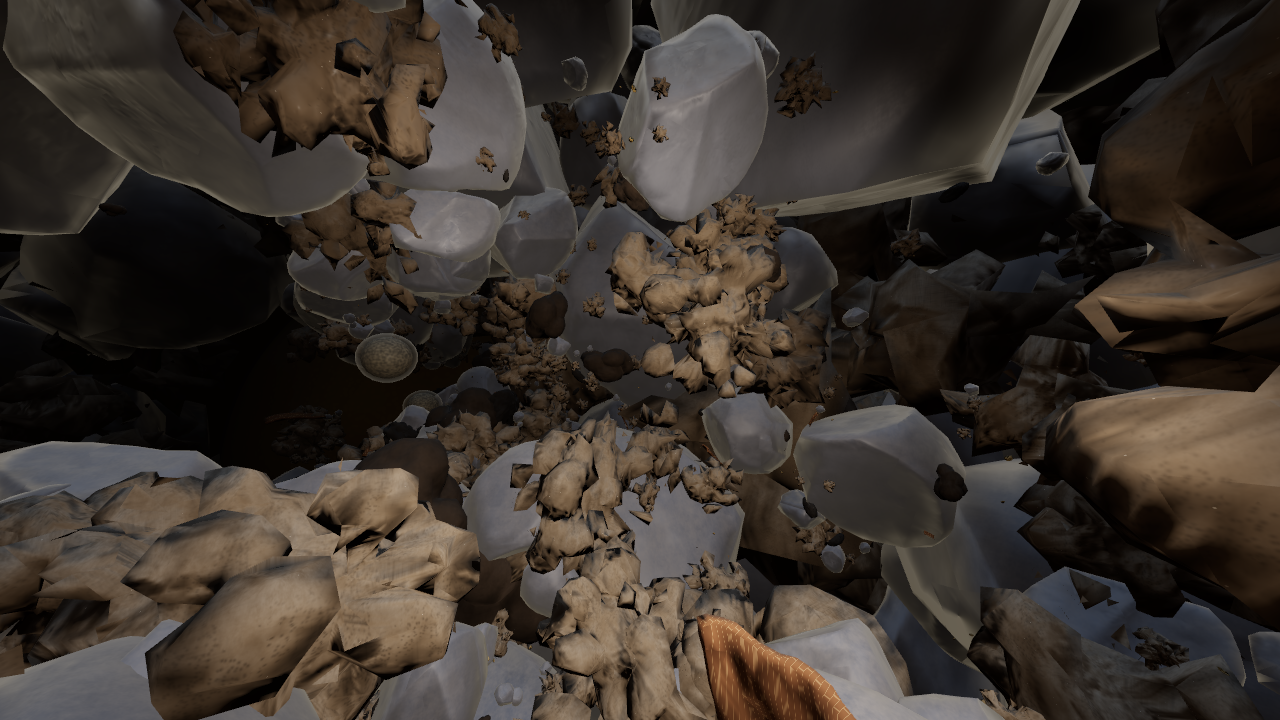
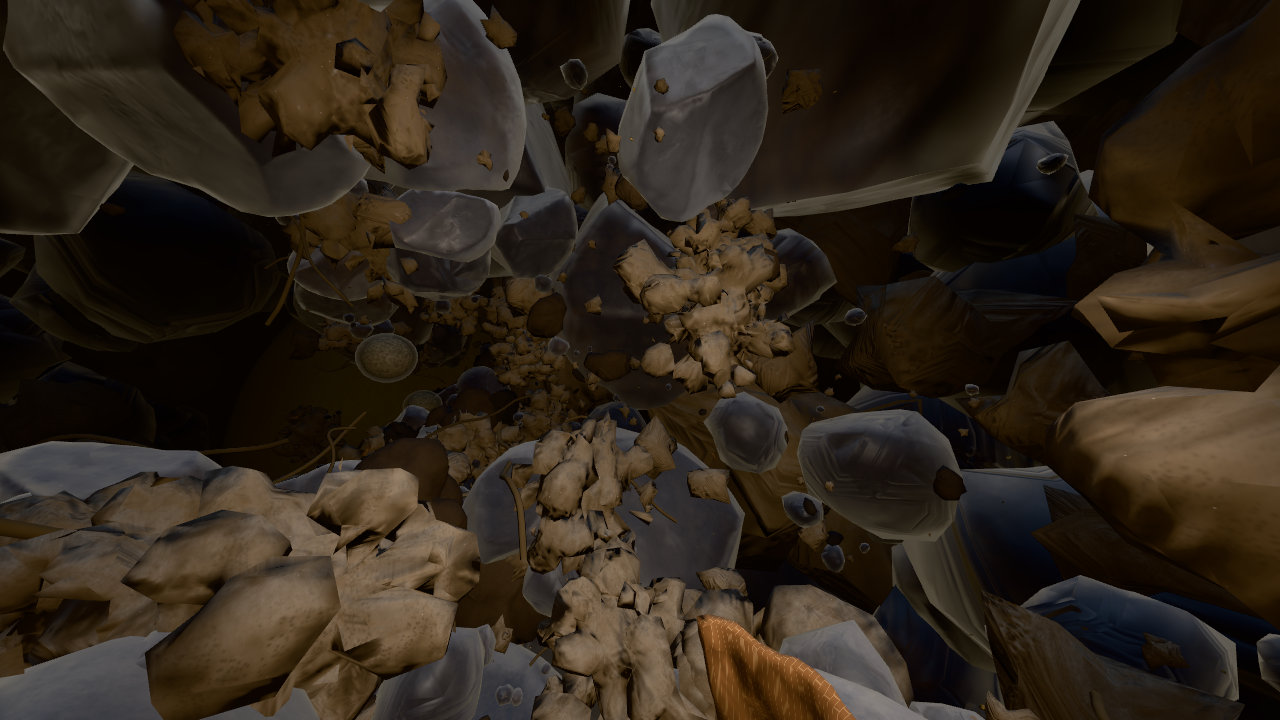
UNDERSOIL: M2 remainder (VR tools, comfort settings) and proposals (vitality strip, dividing bacteria, colloid push, speed settings, carry-water play); production deploy
Claude-Session: https://claude.ai/code/session_01HXHWaeyj425ipGMnohy3Vo

diff --git a/undersoil/src/pages/vr.ts b/undersoil/src/pages/vr.ts
@@ -9,6 +9,7 @@ import { makeDemo } from '../game/demo';
 import { pushOut } from '../game/controls';
 import { makeHud } from './hud';
 import { buildSurface } from '../game/surface';
+import { makeTools } from '../game/tools';
 
 const errors: string[] = [];
 addEventListener('error', (e) => errors.push(e.message));
@@ -46,6 +47,34 @@ async function main() {
   const doSwitch = () => { if (!pending) return; where = pending; pending = null; (where === 'surface' ? sRig : rig).add(camera); growT = 0; surface.setGrowth(0); if (!renderer.xr.isPresenting) pitch = where === 'surface' ? -0.75 : 0; toggleBtn.textContent = where === 'soil' ? '地上を見る' : '土の中へ戻る'; };
   const toggleBtn = document.createElement('button'); toggleBtn.className = 'btn'; toggleBtn.textContent = '地上を見る'; document.querySelector('.nav')!.prepend(toggleBtn);
   toggleBtn.addEventListener('click', () => goTo(where === 'soil' ? 'surface' : 'soil'));
+  // ---- M2：VR の道具と、酔いにくさの設定
+  const tools = makeTools(scene, camera, world, game.seed.position, () => { /* 音は M3 */ }, (p, k) => { game.swarm.attract(p, k); game.swarm2.attract(p, k); });
+  const opt = (id: string, key: string) => { const el = $(id) as HTMLSelectElement; try { const v = localStorage.getItem(key); if (v) el.value = v; } catch { /* noop */ } el.addEventListener('change', () => { try { localStorage.setItem(key, el.value); } catch { /* noop */ } }); return el; };
+  const optSnap = opt('optSnap', 'undersoil.vr.snap'), optVig = opt('optVig', 'undersoil.vr.vig'), optSpeed = opt('optSpeed', 'undersoil.vr.speed');
+  // 視野のまわりを暗くする輪（動いている間だけ。トンネル効果で酔いを減らす）
+  const vig = new THREE.Mesh(new THREE.RingGeometry(0.19, 1.2, 48), new THREE.MeshBasicMaterial({ color: 0x000000, transparent: true, opacity: 0, depthTest: false, depthWrite: false, fog: false }));
+  vig.position.z = -0.3; vig.renderOrder = 999; vig.frustumCulled = false; camera.add(vig);
+  // 手：0・1 番のコントローラー。左右は接続時に分かる
+  const hands: { left: THREE.Object3D | null; right: THREE.Object3D | null } = { left: null, right: null };
+  for (const i of [0, 1]) { const c = renderer.xr.getController(i); rig.add(c);
+    c.addEventListener('connected', (e) => { const h = (e as unknown as { data: XRInputSource }).data.handedness; if (h === 'left') { hands.left = c; c.add(wrist); } else if (h === 'right') hands.right = c; });
+    c.addEventListener('selectstart', () => { if (c === hands.right && where === 'soil') tools.sugar(c.getWorldPosition(new THREE.Vector3())); });
+    c.addEventListener('squeezestart', () => { if (c === hands.right) { if (where === 'soil') tools.water(c.getWorldPosition(new THREE.Vector3())); } else goTo(where === 'soil' ? 'surface' : 'soil'); }); }
+  // 手首の画面（スキャン）：左手の甲の上の小さな板。顔のほうへ向けると見える
+  const wc = document.createElement('canvas'); wc.width = 512; wc.height = 384; const wctx = wc.getContext('2d')!; const wtex = new THREE.CanvasTexture(wc); wtex.colorSpace = THREE.SRGBColorSpace;
+  const wrist = new THREE.Mesh(new THREE.PlaneGeometry(0.16, 0.12), new THREE.MeshBasicMaterial({ map: wtex, transparent: true, opacity: 0, depthTest: false, fog: false }));
+  wrist.position.set(0, 0.07, 0.03); wrist.rotation.x = -Math.PI / 2.6; wrist.renderOrder = 998;
+  let wristT = 0;
+  const drawWrist = (pos: THREE.Vector3) => {
+    const r = tools.read(pos), g = wctx; g.clearRect(0, 0, 512, 384); g.fillStyle = 'rgba(8,20,22,.9)'; g.fillRect(0, 0, 512, 384); g.strokeStyle = '#78dcdc'; g.lineWidth = 3; g.strokeRect(2, 2, 508, 380);
+    g.fillStyle = '#8fe6e0'; g.font = 'bold 30px sans-serif'; g.fillText(`スキャン　区画 ${r.cell + 1}`, 20, 44);
+    const rows: [string, number][] = [['水', r.water], ['糖', r.carbon], ['微生物', r.microbes], ['団粒', r.structure]];
+    rows.forEach(([n, v], k) => { const y = 84 + k * 44; g.fillStyle = '#d8f3f0'; g.font = '26px sans-serif'; g.fillText(n, 20, y + 8); g.fillStyle = 'rgba(255,255,255,.12)'; g.fillRect(130, y - 12, 300, 18); g.fillStyle = '#6fd6cf'; g.fillRect(130, y - 12, 300 * v, 18); g.fillStyle = '#d8f3f0'; g.fillText(String(Math.round(v * 100)), 445, y + 8); });
+    g.fillStyle = '#ffd27a'; g.font = 'bold 28px sans-serif'; g.fillText(`土の活力 ${Math.round(r.vitality * 100)}%　水 ${tools.tank}　糖 ${tools.stock}`, 20, 276);
+    r.all.forEach((v, k) => { g.fillStyle = `hsl(${Math.round(12 + v * 160)} 55% ${Math.round(22 + v * 22)}%)`; g.fillRect(20 + k * (472 / r.all.length), 296, 472 / r.all.length - 3, 20); if (k === r.cell) { g.strokeStyle = '#ffd27a'; g.strokeRect(20 + k * (472 / r.all.length) - 1, 294, 472 / r.all.length - 1, 24); } });
+    g.fillStyle = '#ffe2a8'; g.font = '20px sans-serif'; g.fillText(tools.message.slice(0, 26), 20, 356);
+    wtex.needsUpdate = true;
+  };
   const demo = makeDemo(world);
   const resize = () => { if (renderer.xr.isPresenting) return; renderer.setPixelRatio(Math.min(devicePixelRatio, 1.5)); renderer.setSize(innerWidth, innerHeight, false); camera.aspect = innerWidth / innerHeight; camera.updateProjectionMatrix(); };
   addEventListener('resize', resize); resize();
@@ -63,15 +92,13 @@ async function main() {
   try { supported = !!xr && await xr.isSessionSupported('immersive-vr'); } catch { supported = false; }
   await renderer.compileAsync(scene, camera);
   if (!supported) { btn.disabled = true; msg.textContent = 'このブラウザは VR に対応していません。Meta Quest 3 の標準ブラウザで開いてください。画面をドラッグすると見回せます。'; }
-  else msg.textContent = '座って遊ぶのがおすすめです。左スティックで移動、右スティックで向きを変え、握るボタンで地上の芽生えへ行けます。ときどき休憩をとり、気分が悪くなったらすぐに中断してください。';
+  else msg.textContent = '座って遊ぶのがおすすめです。左スティックで移動、右スティックで向きを変えます。ときどき休憩をとり、気分が悪くなったらすぐに中断してください。';
   setTimeout(() => demo.start(), 4000);
   let session: XRSession | null = null;
   btn.addEventListener('click', async () => {
     if (session) { await session.end(); return; }
     try {
       session = await xr!.requestSession('immersive-vr', { optionalFeatures: ['local-floor', 'bounded-floor', 'hand-tracking'] });
-      // 握るボタン（グリップ）で、土の中 ⇄ 地上を切り替える
-      session.addEventListener('squeeze', () => goTo(where === 'soil' ? 'surface' : 'soil'));
       session.addEventListener('end', () => { session = null; btn.textContent = 'VR で遊ぶ'; document.body.classList.remove('in-vr'); camera.position.set(0, 1.25, 0); resize(); });
       await renderer.xr.setSession(session);
       btn.textContent = 'VR を終了'; document.body.classList.add('in-vr');
@@ -89,15 +116,25 @@ async function main() {
       if (where === 'surface') { /* 地上では移動しない（向きを変えるだけ） */ }
       let mx = 0, mz = 0, tx = 0;
       for (const src of session.inputSources) { const a = src.gamepad?.axes; if (!a) continue; const x = a[2] ?? a[0] ?? 0, y = a[3] ?? a[1] ?? 0; if (src.handedness === 'left') { mx = Math.abs(x) > 0.15 ? x : 0; mz = Math.abs(y) > 0.15 ? y : 0; } else if (src.handedness === 'right') tx = x; }
-      if (Math.abs(tx) > 0.6 && snapReady) { rig.rotation.y -= Math.sign(tx) * Math.PI / 6; snapReady = false; } else if (Math.abs(tx) < 0.3) snapReady = true;
+      if (Math.abs(tx) > 0.6 && snapReady) { rig.rotation.y -= Math.sign(tx) * Number(optSnap.value) * Math.PI / 180; snapReady = false; } else if (Math.abs(tx) < 0.3) snapReady = true;
       const xrCam = renderer.xr.getCamera(); xrCam.getWorldQuaternion(q);
       fwd.set(0, 0, -1).applyQuaternion(q); right.set(1, 0, 0).applyQuaternion(q);
       want.set(0, 0, 0).addScaledVector(fwd, -mz).addScaledVector(right, mx); if (want.lengthSq() > 1) want.normalize();
-      vel.lerp(want.multiplyScalar(3.2), 1 - Math.exp(-dt * 3));
+      vel.lerp(want.multiplyScalar(3.2 * Number(optSpeed.value)), 1 - Math.exp(-dt * 3));
       if (where === 'soil') rig.position.addScaledVector(vel, dt);
       // 頭の位置で粒との当たりを取り、ずれた分だけ体を戻す
       if (where === 'soil') { xrCam.getWorldPosition(head); const before = head.clone(); pushOut(head, world.colliders, 0.7); rig.position.add(head.sub(before)); }
     } else camera.rotation.set(pitch, yaw, 0, 'YXZ');
+    { // 道具と酔いにくさ
+      const headW = (renderer.xr.isPresenting ? renderer.xr.getCamera() : camera).getWorldPosition(new THREE.Vector3());
+      tools.update(dt, headW);
+      const mvig = vig.material as THREE.MeshBasicMaterial; const wantV = optVig.value === 'on' && renderer.xr.isPresenting && where === 'soil' ? Math.min(0.85, vel.length() / 2.2) : 0; mvig.opacity += (wantV - mvig.opacity) * (1 - Math.exp(-dt * 6)); vig.visible = mvig.opacity > 0.01;
+      if (hands.left) { // 手首の板が顔のほうを向いているときだけ出す
+        const wp = wrist.getWorldPosition(new THREE.Vector3()), n = new THREE.Vector3(0, 0, 1).transformDirection(wrist.matrixWorld), facing = n.dot(headW.clone().sub(wp).normalize());
+        const wm = wrist.material as THREE.MeshBasicMaterial; wm.opacity += ((facing > 0.55 && where === 'soil' ? 1 : 0) - wm.opacity) * (1 - Math.exp(-dt * 8)); wrist.visible = wm.opacity > 0.02;
+        wristT -= dt; if (wrist.visible && wristT <= 0) { wristT = 0.4; drawWrist(headW); }
+      }
+    }
     demo.update(dt); game.update(dt, now / 1000);
     if (fadeT > 0) { renderer.setClearColor(0x000000, 1); renderer.clear(); }   // 切り替えの暗転
     else renderer.render(where === 'soil' ? scene : surface.scene, camera);

diff --git a/undersoil/src/game/tools.ts b/undersoil/src/game/tools.ts
@@ -14,14 +14,20 @@ export function makeTools(scene: THREE.Scene, camera: THREE.Camera, world: World
   const pulse = document.createElement('div'); pulse.className = 'scan-pulse'; document.body.append(pulse);
   const toast = document.createElement('div'); toast.className = 'tool-toast'; document.body.append(toast);
   let panelT = 0, toastT = 0;
-  const say = (t: string) => { toast.textContent = t; toast.classList.add('on'); toastT = 3.2; };
+  let lastSay = '';
+  const say = (t: string) => { lastSay = t; toast.textContent = t; toast.classList.add('on'); toastT = 3.2; };
   const bar = (name: string, v: number, hint: string) => `<div class="scan-row"><span>${name}</span><div class="scan-bar"><i style="width:${Math.round(v * 100)}%"></i></div><b>${Math.round(v * 100)}</b><small>${hint}</small></div>`;
+  /** 次にどこへ運ぶとよいか：入口から見て、最初に水の足りない区画 */
+  const next = () => { const k = world.grid.cells.findIndex((c) => c.water < 0.4); const here = world.cellAt(camera.position);
+    return k < 0 ? '道ぞいの区画すべてに、水が行きわたっています' : k === here ? '▼ ここに水が必要です' : `つぎは <b>区画 ${k + 1}</b>（${k > here ? '種のほう' : '入口のほう'}へ ${Math.abs(k - here)} つ）に水を`; };
   const scan = () => {
     const i = world.cellAt(camera.position), c = world.grid.cells[i], v = world.grid.vitality(i);
     const lacks: [number, string][] = [[c.water, '水が足りません。「水を運ぶ」で、水の橋をつなごう'], [c.microbes, c.water < 0.3 ? '微生物は眠っています。まず水が必要です' : '微生物が少ない。糖のしずくを置くと増えます'], [c.structure, '団粒が育っていません。微生物が増えると、のりで粒がまとまります']];
     lacks.sort((a, b) => a[0] - b[0]);
     panel.innerHTML = `<h3>スキャン<small>スーツの画面・区画 ${i + 1}</small></h3>
       ${bar('水（みず）', c.water, '')}${bar('糖（とう）', c.carbon, '')}${bar('微生物（びせいぶつ）', c.microbes, '')}${bar('団粒（だんりゅう）', c.structure, '')}
+      <div class="scan-strip"><span>入口</span>${world.grid.cells.map((_, k) => { const vv = world.grid.vitality(k); return `<i class="${k === i ? 'me' : ''}" style="background:hsl(${Math.round(12 + vv * 160)} 55% ${Math.round(22 + vv * 22)}%)" title="${Math.round(vv * 100)}"></i>`; }).join('')}<span>種</span></div>
+      <div class="scan-next">${next()}</div>
       <div class="scan-v">土の活力 <b>${Math.round(v * 100)}%</b></div>
       <p>${v > 0.75 ? 'この区画は、生き物に満ちています。' : lacks[0][0] > 0.55 ? 'もう少しです。水と糖が行きわたると、活力が上がります。' : lacks[0][1]}</p>`;
     panel.classList.add('on'); panelT = 7; pulse.classList.remove('go'); void pulse.offsetWidth; pulse.classList.add('go'); chime();
@@ -34,17 +40,35 @@ export function makeTools(scene: THREE.Scene, camera: THREE.Camera, world: World
     dropMat.colorNode = vec3(0.55, 0.36, 0.08); dropMat.roughnessNode = float(0.08); dropMat.clearcoatNode = float(1);
     dropMat.emissiveNode = vec3(0.5, 0.3, 0.06).mul(rim.mul(0.6).add(0.12)); dropMat.opacityNode = rim.mul(0.5).add(0.4); }
   const drops: { m: THREE.Mesh; t: number; cell: number }[] = [];
-  const sugar = () => {
-    if (stock <= 0) { say('糖（とう）がありません。種（たね）のそばで補給できます'); return; }
-    const p = camera.position.clone().add(new THREE.Vector3(0, -0.35, -3.0).applyQuaternion(camera.quaternion)); pushOut(p, world.colliders, 0.45);
+  const sugar = (at?: THREE.Vector3) => {
+    if (stock <= 0) { say('糖（とう）がありません。種（たね）のそばで補給できます'); return false; }
+    const p = at ? at.clone() : camera.position.clone().add(new THREE.Vector3(0, -0.35, -3.0).applyQuaternion(camera.quaternion)); pushOut(p, world.colliders, 0.45);
     const m = new THREE.Mesh(dropGeo, dropMat); m.position.copy(p); m.scale.setScalar(0.22); m.name = 'sugar_drop'; scene.add(m);
     const cell = world.cellAt(p); drops.push({ m, t: 0, cell }); stock--; pull = 0; chime();
     say(world.grid.cells[cell].water < 0.3 ? `糖のしずくを置きました（残り ${stock}）。ここは乾いていて、微生物はまだ眠っています` : `糖のしずくを置きました（残り ${stock}）。微生物が集まって増えます`);
+    return true;
+  };
+  // ---- 水を運ぶ（ステージ1の固有の遊び）：水のある区画でくみ、乾いた区画でまく。となりの区画にも水があれば、水の橋がかかってつながる
+  let tank = 0; const TANK = 3;
+  const water = (pos?: THREE.Vector3) => {
+    const i = world.cellAt(pos ?? camera.position), g = world.grid, c = g.cells[i];
+    for (const cc of g.cells) cc.dryness = 1;
+    if (tank < TANK && (i === 0 || c.water > 0.6)) {   // 入口の区画には、地上から雨水がしみ込んでくる（いつでもくめる）
+      tank = TANK; if (i === 0) { g.addWater(0, 0.7); g.addCarbon(0, 0.15); } else c.water = Math.max(0.45, c.water - 0.1);
+      chime(); say(i === 0 ? '入口にしみ込む雨水（あまみず）をくみました（3 回ぶん）' : '水をくみました（3 回ぶん）'); return 'take';
+    }
+    if (tank <= 0) { say('水がありません。入口（地図の左）か、水のある区画でくめます'); return 'empty'; }
+    tank--; g.addWater(i, 0.55); g.addCarbon(i, 0.08); chime();
+    let linked = false; for (const j of [i - 1, i + 1]) if (j >= 0 && j < g.count && g.cells[j].water > 0.3 && !g.links[i].has(j)) { g.link(i, j); linked = true; }
+    say(linked ? `水をまきました（残り ${tank}）。となりの区画と、水の橋（はし）がつながりました！` : `水をまきました（残り ${tank}）。となりにも水があると、水の橋がかかります`); return 'pour';
   };
   return {
-    scan, sugar,
+    scan, sugar, water, get tank() { return tank; }, get message() { return lastSay; },
+    /** VR の手首の画面用：いまいる区画の数字 */
+    read(pos?: THREE.Vector3) { const i = world.cellAt(pos ?? camera.position), c = world.grid.cells[i]; return { cell: i, water: c.water, carbon: c.carbon, microbes: c.microbes, structure: c.structure, vitality: world.grid.vitality(i), all: world.grid.cells.map((_, k) => world.grid.vitality(k)) }; },
     get stock() { return stock; },
-    update(dt: number) {
+    /** pos：プレイヤーの位置（VR では頭の位置を渡す） */
+    update(dt: number, pos?: THREE.Vector3) {
       if (panelT > 0) { panelT -= dt; if (panelT <= 0) panel.classList.remove('on'); }
       soilUniforms.scan.value += ((panelT > 0 || DBG_SCAN ? 1 : 0) - soilUniforms.scan.value) * (1 - Math.exp(-dt * 4));   // スキャン中だけ、粒に活力の色
       if (toastT > 0) { toastT -= dt; if (toastT <= 0) toast.classList.remove('on'); }
@@ -58,7 +82,7 @@ export function makeTools(scene: THREE.Scene, camera: THREE.Camera, world: World
       // 細菌は糖の濃いほうへ集まる（走化性）。いちばん新しいしずくへ、数秒かけて寄ってくる。水がないと動けない
       { const d = drops[drops.length - 1]; if (d && world.grid.cells[d.cell].water > 0.25) { pull = Math.min(1, pull + dt / 6); attract?.(d.m.position, pull * Math.max(0, 1 - d.t / 25) ** 0.3); } else { pull = 0; attract?.(null, 0); } }
       // 種のそばで補給（種からしみ出した糖をもらう）
-      if (stock < MAX && camera.position.distanceTo(seedPos) < 80) { stock = MAX; say('種（たね）からしみ出した糖を補給しました（3 つ）'); }
+      if (stock < MAX && (pos ?? camera.position).distanceTo(seedPos) < 80) { stock = MAX; say('種（たね）からしみ出した糖を補給しました（3 つ）'); }
     },
   };
 }

diff --git a/undersoil/src/game/controls.ts b/undersoil/src/game/controls.ts
@@ -1,11 +1,11 @@
 // 移動（M2）：見回しはドラッグ／右スティック、移動は WASD／左スティック／タッチの仮想スティック。粒にはめり込まない。
 // ・歩く（乾いた所）：足もとの粒へ引かれ（弱い重力）、きびきび止まる。上下の入力は、登る・下りる
 // ・泳ぐ（水のある所）：全方向に進み、止めてもしばらく滑る（水の抵抗でゆっくり止まる）。少し速い
-// ・道具：スキャン（E キー／ゲームパッド X）、糖のしずく（Q キー／ゲームパッド Y）。画面のボタンでも使える
+// ・道具：スキャン（E キー／ゲームパッド X）、糖のしずく（Q キー／ゲームパッド Y）、水をくむ・まく（F キー／ゲームパッド RB）。画面のボタンでも使える
 import * as THREE from 'three/webgpu';
 import type { Collider } from './world';
 
-export interface FreeControls { update(dt: number): void; enabled: boolean; yaw: number; pitch: number; moving: boolean; /** その場所の水の量（0〜1）。0.45 以上で泳ぐ */ water: number; swimming: boolean; /** 歩くときの、視点のわずかな上下（設定で切れる） */ bob: boolean; onAction?: (a: 'scan' | 'sugar') => void; }
+export interface FreeControls { update(dt: number): void; enabled: boolean; yaw: number; pitch: number; moving: boolean; /** その場所の水の量（0〜1）。0.45 以上で泳ぐ */ water: number; swimming: boolean; /** 歩くときの、視点のわずかな上下（設定で切れる） */ bob: boolean; /** 設定：動く速さ・見回す速さの倍率 */ speedK: number; lookK: number; onAction?: (a: 'scan' | 'sugar' | 'water') => void; }
 
 export function pushOut(p: THREE.Vector3, colliders: Collider[], radius: number) {
   for (let it = 0; it < 2; it++) for (const c of colliders) {
@@ -16,11 +16,11 @@ export function pushOut(p: THREE.Vector3, colliders: Collider[], radius: number)
 
 export function makeFreeControls(camera: THREE.Camera, dom: HTMLElement, colliders: Collider[], stick: HTMLElement | null): FreeControls {
   const keys = new Set<string>(); const vel = new THREE.Vector3(); const move = new THREE.Vector2();
-  const c: FreeControls = { enabled: true, yaw: 0, pitch: 0, moving: false, water: 0, swimming: false, bob: true, update };
+  const c: FreeControls = { enabled: true, yaw: 0, pitch: 0, moving: false, water: 0, swimming: false, bob: true, speedK: 1, lookK: 1, update };
   let bobPh = 0, bobPrev = 0;
-  let swimK = 0; const padPrev = [false, false];
+  let swimK = 0; const padPrev = [false, false, false];
   const e = new THREE.Euler().setFromQuaternion(camera.quaternion, 'YXZ'); c.yaw = e.y; c.pitch = e.x;
-  addEventListener('keydown', (ev) => { keys.add(ev.code); if (c.enabled && !ev.repeat) { if (ev.code === 'KeyE') c.onAction?.('scan'); if (ev.code === 'KeyQ') c.onAction?.('sugar'); } }); addEventListener('keyup', (ev) => keys.delete(ev.code)); addEventListener('blur', () => keys.clear());
+  addEventListener('keydown', (ev) => { keys.add(ev.code); if (c.enabled && !ev.repeat) { if (ev.code === 'KeyE') c.onAction?.('scan'); if (ev.code === 'KeyQ') c.onAction?.('sugar'); if (ev.code === 'KeyF') c.onAction?.('water'); } }); addEventListener('keyup', (ev) => keys.delete(ev.code)); addEventListener('blur', () => keys.clear());
   let lookId = -1, lx = 0, ly = 0, stickId = -1, sx = 0, sy = 0;
   dom.addEventListener('pointerdown', (ev) => {
     if (stick && ev.pointerType === 'touch' && ev.clientX < innerWidth * 0.4 && ev.clientY > innerHeight * 0.4) { stickId = ev.pointerId; sx = ev.clientX; sy = ev.clientY; stick.style.left = sx + 'px'; stick.style.top = sy + 'px'; stick.classList.add('on'); }
@@ -28,7 +28,7 @@ export function makeFreeControls(camera: THREE.Camera, dom: HTMLElement, collide
     dom.setPointerCapture(ev.pointerId);
   });
   dom.addEventListener('pointermove', (ev) => {
-    if (ev.pointerId === lookId) { const k = ev.pointerType === 'touch' ? 0.0045 : 0.003; c.yaw -= (ev.clientX - lx) * k; c.pitch = Math.max(-1.45, Math.min(1.45, c.pitch - (ev.clientY - ly) * k)); lx = ev.clientX; ly = ev.clientY; }
+    if (ev.pointerId === lookId) { const k = (ev.pointerType === 'touch' ? 0.0045 : 0.003) * c.lookK; c.yaw -= (ev.clientX - lx) * k; c.pitch = Math.max(-1.45, Math.min(1.45, c.pitch - (ev.clientY - ly) * k)); lx = ev.clientX; ly = ev.clientY; }
     if (ev.pointerId === stickId) { move.set((ev.clientX - sx) / 60, (ev.clientY - sy) / 60); if (move.length() > 1) move.normalize(); const knob = stick!.firstElementChild as HTMLElement; knob.style.transform = `translate(${move.x * 40}px, ${move.y * 40}px)`; }
   });
   const end = (ev: PointerEvent) => { if (ev.pointerId === lookId) lookId = -1; if (ev.pointerId === stickId) { stickId = -1; move.set(0, 0); stick!.classList.remove('on'); (stick!.firstElementChild as HTMLElement).style.transform = ''; } };
@@ -41,16 +41,16 @@ export function makeFreeControls(camera: THREE.Camera, dom: HTMLElement, collide
     if (keys.has('KeyA') || keys.has('ArrowLeft')) mx -= 1; if (keys.has('KeyD') || keys.has('ArrowRight')) mx += 1;
     if (keys.has('Space')) my += 1; if (keys.has('KeyC') || keys.has('ShiftLeft')) my -= 1;
     const gp = navigator.getGamepads?.()[0];
-    if (gp) { const dz = (v: number) => (Math.abs(v) < 0.15 ? 0 : v); mx += dz(gp.axes[0] ?? 0); mz += dz(gp.axes[1] ?? 0); c.yaw -= dz(gp.axes[2] ?? 0) * 2.2 * dt; c.pitch = Math.max(-1.45, Math.min(1.45, c.pitch - dz(gp.axes[3] ?? 0) * 1.6 * dt)); if (gp.buttons[0]?.pressed) my += 1; if (gp.buttons[1]?.pressed) my -= 1; }
+    if (gp) { const dz = (v: number) => (Math.abs(v) < 0.15 ? 0 : v); mx += dz(gp.axes[0] ?? 0); mz += dz(gp.axes[1] ?? 0); c.yaw -= dz(gp.axes[2] ?? 0) * 2.2 * c.lookK * dt; c.pitch = Math.max(-1.45, Math.min(1.45, c.pitch - dz(gp.axes[3] ?? 0) * 1.6 * dt)); if (gp.buttons[0]?.pressed) my += 1; if (gp.buttons[1]?.pressed) my -= 1; }
     camera.quaternion.setFromEuler(e.set(c.pitch, c.yaw, 0, 'YXZ'));
     fwd.set(0, 0, -1).applyQuaternion(camera.quaternion); right.set(1, 0, 0).applyQuaternion(camera.quaternion);
     want.set(0, 0, 0).addScaledVector(fwd, -mz).addScaledVector(right, mx); want.y += my; if (want.lengthSq() > 1) want.normalize();
     c.moving = want.lengthSq() > 0.01;
-    if (gp) { const b = [!!gp.buttons[2]?.pressed, !!gp.buttons[3]?.pressed]; if (b[0] && !padPrev[0]) c.onAction?.('scan'); if (b[1] && !padPrev[1]) c.onAction?.('sugar'); padPrev[0] = b[0]; padPrev[1] = b[1];
+    if (gp) { const b = [!!gp.buttons[2]?.pressed, !!gp.buttons[3]?.pressed]; if (b[0] && !padPrev[0]) c.onAction?.('scan'); if (b[1] && !padPrev[1]) c.onAction?.('sugar'); padPrev[0] = b[0]; padPrev[1] = b[1]; { const w = !!gp.buttons[5]?.pressed; if (w && !padPrev[2]) c.onAction?.('water'); padPrev[2] = w; }
       my += (gp.buttons[0]?.pressed ? 1 : 0) - (gp.buttons[1]?.pressed ? 1 : 0); want.y += (gp.buttons[0]?.pressed ? 1 : 0) - (gp.buttons[1]?.pressed ? 1 : 0); }
     // 歩く ⇄ 泳ぐ：水の量でなめらかに切り替える
     c.swimming = c.water > 0.45; swimK += ((c.swimming ? 1 : 0) - swimK) * (1 - Math.exp(-dt * 2.5));
-    const speed = 4.6 + 2.4 * swimK;                                   // 歩き 46µm/秒、泳ぎ 70µm/秒
+    const speed = (4.6 + 2.4 * swimK) * c.speedK;                                   // 歩き 46µm/秒、泳ぎ 70µm/秒
     const accel = c.moving ? 7 - 3.5 * swimK : 6 - 4.8 * swimK;        // 泳ぎは動き出しがゆるく、止めても滑る
     vel.lerp(want.multiplyScalar(speed), 1 - Math.exp(-dt * accel));
     camera.position.addScaledVector(vel, dt);

diff --git a/undersoil/src/pages/screen.ts b/undersoil/src/pages/screen.ts
@@ -22,7 +22,7 @@ import { SPECIES } from '../game/species';
 import { showCard } from '../ui/card';
 import { makePointer } from '../ui/pointer';
 import type { Target } from '../game/encounters';
-import { mountSettings, savedTier, savedBob } from '../ui/settings';
+import { mountSettings, savedTier, savedBob, savedSpeed, savedLook } from '../ui/settings';
 import { createAudio } from '../audio/engine';
 import { makeHud } from './hud';
 
@@ -125,7 +125,8 @@ async function main() {
   const colloids = game.tier === 'vr' ? null : buildColloids(game.tier === 'pc-high' ? 1400 : game.tier === 'mobile-high' ? 800 : 300, 7, game.q.post.some((e: string) => e.startsWith('dof')) ? 0.15 : 1.6)   // ぼかしのない段階では、近すぎる粒は消す（くっきりした玉に見えるため）; if (colloids) scene.add(colloids.mesh);
   // 道具（M2）：スキャンと糖のしずく。自分で動くときに使う（E・Q キー、ゲームパッド X・Y、画面のボタン）
   const tools = makeTools(scene, camera, world, game.seed.position, () => audio.chime(), (p, k) => { game.swarm.attract(p, k); game.swarm2.attract(p, k); });
-  controls.onAction = (a) => (a === 'scan' ? tools.scan() : tools.sugar());
+  controls.onAction = (a) => { if (a === 'scan') tools.scan(); else if (a === 'sugar') tools.sugar(); else tools.water(); };
+  $('waterBtn').addEventListener('click', () => tools.water());
   $('scanBtn').addEventListener('click', () => tools.scan()); $('sugarBtn').addEventListener('click', () => tools.sugar());
   const scope = await buildMicroscope('./');
   const sizes = makeSizes('./');
@@ -213,9 +214,9 @@ async function main() {
   const showGuide = () => {
     if (guideShown) return; guideShown = true;
     const touch = matchMedia('(pointer: coarse)').matches, pad = !!navigator.getGamepads?.()[0];
-    const rows = pad ? [['左スティック', '動く'], ['右スティック', '見回す'], ['A / B', '上へ / 下へ'], ['X', 'スキャン'], ['Y', '糖のしずく']]
-      : touch ? [['画面の左下をなぞる', '動く'], ['そのほかをなぞる', '見回す'], ['「スキャン」', '土のようすを調べる'], ['「糖のしずく」', '微生物を呼ぶ']]
-      : [['W A S D', '動く'], ['ドラッグ', '見回す'], ['スペース / C', '上へ / 下へ'], ['E', 'スキャン'], ['Q', '糖のしずく']];
+    const rows = pad ? [['左スティック', '動く'], ['右スティック', '見回す'], ['A / B', '上へ / 下へ'], ['RB', '水をくむ・まく'], ['X', 'スキャン'], ['Y', '糖のしずく']]
+      : touch ? [['画面の左下をなぞる', '動く'], ['そのほかをなぞる', '見回す'], ['「水をくむ／まく」', '入口でくみ、乾いた所でまく'], ['「スキャン」', '土のようすを調べる'], ['「糖のしずく」', '微生物を呼ぶ']]
+      : [['W A S D', '動く'], ['ドラッグ', '見回す'], ['スペース / C', '上へ / 下へ'], ['F', '水をくむ・まく'], ['E', 'スキャン'], ['Q', '糖のしずく']];
     guide.innerHTML = '<b>動（うご）かしかた</b>' + rows.map(([k, v]) => `<div><kbd>${k}</kbd><span>${v}</span></div>`).join('') + '<small>水のある所では泳ぎ、乾いた所では歩きます。押すと消えます</small>';
     guide.classList.add('on'); const off = () => guide.classList.remove('on'); guide.addEventListener('click', off); setTimeout(off, 30000);
   };
@@ -248,8 +249,8 @@ async function main() {
     else if (touring && visit) { const f = visit.get(); if (f) { const want = f.view ? f.view : visit.pos.clone().add(f.p.clone().sub(visit.anchor)); camera.position.lerp(want, 1 - Math.exp(-dt * 1.2)); const q0 = camera.quaternion.clone(); camera.lookAt(f.p); camera.quaternion.slerp(q0, Math.exp(-dt * 3)); } }
     else if (touring && pointer.focus()) { const f = pointer.focus()!; focusT = focusT ? focusT.lerp(f, 1 - Math.exp(-dt * 2)) : look.clone(); const q0 = camera.quaternion.clone(); camera.lookAt(focusT); camera.quaternion.slerp(q0, Math.exp(-dt * 1.5)); }
     else if (touring) { tourU = (tourU + dt * 0.012) % 1; placeOnPath(0.02 + 0.84 * (0.5 - 0.5 * Math.cos(tourU * Math.PI * 2))); /* 道の終わりで、吸水した種（seed.ts）に近づく */ }
-    else { controls.bob = savedBob() && !reduceMotion; controls.water = world.grid.cells[world.cellAt(camera.position)]?.water ?? 0; controls.update(dt); }
-    tools.update(dt); { const mm = $('moveMode'); const txt = touring || mode !== 'soil' ? '' : controls.swimming ? '泳（およ）ぐ' : '歩（ある）く'; if (mm.textContent !== txt) mm.textContent = txt; $('sugarBtn').textContent = `糖のしずく ${tools.stock}`; document.body.classList.toggle('free', !touring && mode === 'soil'); }
+    else { controls.speedK = savedSpeed(); controls.lookK = savedLook(); controls.bob = savedBob() && !reduceMotion; controls.water = world.grid.cells[world.cellAt(camera.position)]?.water ?? 0; controls.update(dt); }
+    tools.update(dt); { const mm = $('moveMode'); const txt = touring || mode !== 'soil' ? '' : controls.swimming ? '泳（およ）ぐ' : '歩（ある）く'; if (mm.textContent !== txt) mm.textContent = txt; $('sugarBtn').textContent = `糖のしずく ${tools.stock}`; { const ci = world.cellAt(camera.position); $('waterBtn').textContent = tools.tank < 3 && (ci === 0 || world.grid.cells[ci].water > 0.6) ? '水をくむ' : `水をまく ${tools.tank}`; } document.body.classList.toggle('free', !touring && mode === 'soil'); }
     if (wetQ === null) { demo.update(dt); game.update(dt, t); }
     // 手持ちカメラのごくわずかな揺れ（記録映像らしさ）：自動で巡るときだけ、0.15°以内。動きを減らす設定の端末では使わない
     if (touring && !reduceMotion && !testing) { const k = 0.0026; driftQ.setFromEuler(new THREE.Euler(Math.sin(t * 0.53) * k + Math.sin(t * 1.37) * k * 0.4, Math.sin(t * 0.41 + 1.2) * k + Math.sin(t * 1.11) * k * 0.35, 0)); camera.quaternion.multiply(driftQ); }
@@ -263,7 +264,7 @@ async function main() {
       if (viewShift > 0.002) camera.setViewOffset(innerWidth, innerHeight, innerWidth * viewShift, 0, innerWidth, innerHeight); else if (camera.view) camera.clearViewOffset();
       if (post) post.render(); else renderer.render(scene, camera);
     }
-    if (colloids && mode === 'soil') colloids.update(dt, camera.position, world.grid.cells[world.cellAt(camera.position)]?.water ?? 0, !touring && controls.swimming);
+    if (colloids && mode === 'soil') colloids.update(dt, camera.position, world.grid.cells[world.cellAt(camera.position)]?.water ?? 0, !touring && controls.swimming, game.creatures.movers());
     scope.tick(dt); minimap.update(camera, mode === 'soil' && started); goalTick(dt);
     if (!testing) enc.update(dt);
     pointer.update(dt);

diff --git a/undersoil/src/game/swarm.ts b/undersoil/src/game/swarm.ts
@@ -1,7 +1,7 @@
 // 細菌の群れ：桿菌（両端が丸い棒）をインスタンス描画し、動きは頂点シェーダーで作る。
 // 水の膜の中でだけ泳ぐ。乾いた区画では見えない（芽胞として休眠している）。
 import * as THREE from 'three/webgpu';
-import { float, vec3, instancedBufferAttribute, time, sin, cos, positionLocal, mix, saturate, normalView, positionViewDirection, dot, pow, oneMinus, hash, instanceIndex , uniform, smoothstep, mx_noise_float, positionWorld, cameraPosition } from 'three/tsl';
+import { float, vec3, instancedBufferAttribute, time, sin, cos, positionLocal, mix, saturate, normalView, positionViewDirection, dot, pow, oneMinus, hash, instanceIndex , uniform, smoothstep, mx_noise_float, positionWorld, cameraPosition, fract } from 'three/tsl';
 import type { Collider } from './world';
 import { makeRng } from './rng';
 
@@ -64,11 +64,16 @@ export function buildSwarm(colliders: Collider[], cellOf: (p: THREE.Vector3) => 
   const heading = species === 'pseudomonas' ? aTan.mul(cos(tt).sign().add(0.001)).add(side.mul(sin(tt.mul(0.61)).mul(-0.3))).normalize() : aTan;   // 枯草菌は向きを変えない
   const bx = heading.cross(vec3(0.0, 0.0, 1.0)).normalize(), bz = heading.cross(bx);
   const wig = sin(time.mul(18.0).add(aPh.mul(50.0))).mul(0.015); // 細かい震え
+  const uSug = uniform(new THREE.Vector3()), uSugK = uniform(0);
   const lp = positionLocal;
-  const lps = lp.mul(aScl);
+  // 分裂：糖のそばの細菌は、長く伸び、まん中がくびれて、2 つに分かれる（1 回 約 10 秒の早回し。本物は 20〜30 分に 1 回）
+  const nearSug = smoothstep(8.0, 1.5, aPos.sub(uSug).length()).mul(uSugK);
+  const divPh = fract(time.mul(0.1).add(aPh.mul(7.0)));
+  const stretch = smoothstep(0.15, 0.85, divPh).mul(0.85).mul(nearSug).add(1.0);
+  const pinch = oneMinus(smoothstep(0.55, 0.95, divPh).mul(nearSug).mul(smoothstep(0.035, 0.0, lp.y.abs())).mul(0.8));
+  const lps = vec3(lp.x.mul(pinch), lp.y.mul(stretch), lp.z.mul(pinch)).mul(aScl);
   const rotated = bx.mul(lps.x.add(wig.mul(aSwim))).add(heading.mul(lps.y)).add(bz.mul(lps.z));
   // 走化性：糖のしずくが置かれると、近く（半径 約 80µm）の細菌が、しずくのまわりへ寄ってくる（しずくの表面で止まり、重ならない）
-  const uSug = uniform(new THREE.Vector3()), uSugK = uniform(0);
   const pullOf = (p: V) => { const to = uSug.sub(p), dist = to.length(); return to.mul(smoothstep(8.0, 1.5, dist).mul(saturate(dist.sub(0.45).div(dist.max(0.001)))).mul(uSugK).mul(0.82)); };
   m.positionNode = aPos.add(drift).add(pullOf(aPos)).add(rotated.mul(live));
   // 見た目（持ち主の資料と顕微鏡写真）：両端の丸い棒。細い暗い輪郭線、中は淡い灰色で細かい粒々。

diff --git a/undersoil/src/ui/settings.ts b/undersoil/src/ui/settings.ts
@@ -1,6 +1,9 @@
 // 設定（M0 の最小版）：描画方式、品質段階、初登場の紹介。ブラウザの中に保存する。
 import './settings.css';
-const KEYS = { renderer: 'undersoil.renderer', tier: 'undersoil.tier', intro: 'undersoil.intro', bob: 'undersoil.bob' } as const;
+const KEYS = { renderer: 'undersoil.renderer', tier: 'undersoil.tier', intro: 'undersoil.intro', bob: 'undersoil.bob', speed: 'undersoil.speed', look: 'undersoil.look' } as const;
+const K: Record<string, number> = { slow: 0.7, normal: 1, fast: 1.4 };
+export const savedSpeed = () => K[get(KEYS.speed, 'normal')] ?? 1;
+export const savedLook = () => K[get(KEYS.look, 'normal')] ?? 1;
 export const savedBob = () => get(KEYS.bob, 'on') === 'on';
 const get = (k: string, d: string) => { try { return localStorage.getItem(k) ?? d; } catch { return d; } };
 const set = (k: string, v: string, d: string) => { try { if (v === d) localStorage.removeItem(k); else localStorage.setItem(k, v); } catch { /* noop */ } };
@@ -16,6 +19,8 @@ export function mountSettings(openBtn: HTMLElement, info: { renderer: string; ti
     ${group('描画方式', 'renderer', 'auto', [['auto', '自動'], ['webgpu', 'WebGPU'], ['webgl2', 'WebGL 2']], true)}
     ${group('画質', 'tier', 'auto', [['auto', '自動'], ['pc-high', 'PC 高画質'], ['mobile-high', 'モバイル高画質'], ['compat', '互換（軽い）']], true)}
     ${group('生き物の初登場の紹介', 'intro', 'all', [['all', 'すべて表示'], ['name', '名前だけ'], ['off', '表示しない']], false)}
+    ${group('動く速さ', 'speed', 'normal', [['slow', 'ゆっくり'], ['normal', 'ふつう'], ['fast', 'はやい']], false)}
+    ${group('見回す速さ', 'look', 'normal', [['slow', 'ゆっくり'], ['normal', 'ふつう'], ['fast', 'はやい']], false)}
     ${group('歩くときの視点のゆれ', 'bob', 'on', [['on', 'あり'], ['off', 'なし（酔いやすい方に）']], false)}
     <p class="now">いまの動作：${info.renderer} ／ ${info.tier}</p>
     <p class="note">設定と進み具合は、このブラウザの中に保存されます。別のブラウザや端末には引き継がれません。表示が乱れる・止まるときは、描画方式を「WebGL 2」にしてください。</p>

diff --git a/undersoil/src/game/colloids.ts b/undersoil/src/game/colloids.ts
@@ -34,7 +34,8 @@ export function buildColloids(count: number, R = 7, nearFade = 0.15) {
   return {
     mesh,
     /** cam：カメラの位置、wet：その場所の湿り（0〜1） */
-    update(dt: number, cam: THREE.Vector3, wet: number, swimming = false) {
+    /** movers：近くを動く生き物（位置と半径）。通ると、まわりの粒が水ごと押しのけられる */
+    update(dt: number, cam: THREE.Vector3, wet: number, swimming = false, movers: { p: THREE.Vector3; r: number }[] = []) {
       if (!first && dt > 0) { const v = cam.clone().sub(center).divideScalar(dt); if (!swimming || v.length() > 30) v.set(0, 0, 0); uVel.value.lerp(v, 1 - Math.exp(-dt * 6)); }
       uWet.value += (wet - uWet.value) * (1 - Math.exp(-dt * 1.5));
       if (first) { for (let i = 0; i < count; i++) { arr[i * 3] += cam.x; arr[i * 3 + 1] += cam.y; arr[i * 3 + 2] += cam.z; } first = false; }
@@ -45,6 +46,8 @@ export function buildColloids(count: number, R = 7, nearFade = 0.15) {
         const j = i * 3, amp = 0.006 / size[i] * k;
         vel[j] = vel[j] * 0.6 + (Math.random() * 2 - 1) * amp; vel[j + 1] = vel[j + 1] * 0.6 + (Math.random() * 2 - 1) * amp; vel[j + 2] = vel[j + 2] * 0.6 + (Math.random() * 2 - 1) * amp;
         arr[j] += vel[j]; arr[j + 1] += vel[j + 1] - 0.002 * dt; arr[j + 2] += vel[j + 2];
+        for (const mv of movers) { const dx = arr[j] - mv.p.x, dy = arr[j + 1] - mv.p.y, dz = arr[j + 2] - mv.p.z, d2 = dx * dx + dy * dy + dz * dz, R2 = (mv.r * 1.8) ** 2;
+          if (d2 < R2 && d2 > 1e-4) { const d = Math.sqrt(d2), k = (1 - d / (mv.r * 1.8)) * 2.2 * dt / d; arr[j] += dx * k; arr[j + 1] += dy * k; arr[j + 2] += dz * k; } }
         // カメラから離れすぎた粒は、反対側へ回す
         for (let a = 0; a < 3; a++) { const c = center.getComponent(a); if (arr[j + a] - c > R) arr[j + a] -= 2 * R; else if (arr[j + a] - c < -R) arr[j + a] += 2 * R; }
       }

diff --git a/undersoil/src/game/creatures.ts b/undersoil/src/game/creatures.ts
@@ -5,7 +5,7 @@ import { texture, uv, vec3, float, mix, normalMap, normalView, positionViewDirec
 import { loadGLB, loadTexture } from '../core/assets';
 import type { World } from './world';
 
-export interface Creatures { group: THREE.Group; update(dt: number, t: number): void; anyActive(): boolean; nearest(p: THREE.Vector3): THREE.Vector3 | null; }
+export interface Creatures { group: THREE.Group; update(dt: number, t: number): void; anyActive(): boolean; nearest(p: THREE.Vector3): THREE.Vector3 | null; /** 泳いでいる個体の位置（水の中の粒を押しのけるため） */ movers(): { p: THREE.Vector3; r: number }[]; }
 
 function bodyMaterial(na: THREE.Texture) {
   // 持ち主の資料と顕微鏡写真：腎臓形。細い暗い輪郭線。中は淡い灰褐色（#C2B5A4）で、細かい粒々が詰まっている
@@ -99,6 +99,7 @@ export async function buildCreatures(base: string, world: World, opts: { lod: 0 
   return {
     group,
     anyActive: () => list.some((c) => c.a > 0.6),
+    movers: () => list.filter((c) => c.a > 0.6).map((c) => ({ p: c.root.position, r: 3.2 })),
     nearest(from) { let best: THREE.Vector3 | null = null, bd = 1e9; for (const c of list) { if (c.a < 0.6) continue; const d = c.root.position.distanceToSquared(from); if (d < bd) { bd = d; best = c.root.position; } } return best; },
     update(dt, t) {
       for (const c of list) {

diff --git a/undersoil/src/ui/game.css b/undersoil/src/ui/game.css
@@ -171,3 +171,13 @@ body.surface .scan, body.surface .tool-toast, body.surface .move-mode { display:
 .guide kbd { font: inherit; color: #1a140c; background: #efe6d8; border-radius: 4px; padding: 0 6px; justify-self: start; }
 .guide small { display: block; margin-top: 8px; color: #b9ad98; }
 body.surface .guide { display: none; }
+
+.scan-strip { display: flex; align-items: center; gap: 2px; margin-top: 8px; font-size: .75em; color: #7fb5b0; }
+.scan-strip i { flex: 1; height: 10px; border-radius: 2px; } .scan-strip i.me { outline: 2px solid #ffd27a; outline-offset: 1px; }
+.scan-strip span { margin: 0 4px; }
+.scan-next { margin-top: 4px; font-size: .9em; color: #bfe9e5; } .scan-next b { color: #ffd27a; }
+
+.vr-opts { margin: 12px auto 6px; padding: 8px 12px; border: 1px solid var(--line); border-radius: 10px; display: grid; gap: 6px; font-size: 13px; text-align: left; max-width: 30em; }
+.vr-opts legend { color: var(--dim); padding: 0 6px; } .vr-opts label { display: flex; justify-content: space-between; gap: 10px; align-items: center; } .vr-opts select { font: inherit; }
+.vr-help { display: block; color: var(--dim); max-width: 34em; margin: 0 auto; line-height: 1.6; }
+body.in-vr .vr-opts, body.in-vr .vr-help { display: none; }

diff --git a/undersoil/vr/index.html b/undersoil/vr/index.html
@@ -16,6 +16,12 @@
 <div class="center-cta">
   <button class="btn primary" id="enterVR">VR で遊ぶ</button>
   <small id="vrMsg">確認中…</small>
+  <fieldset class="vr-opts"><legend>酔いにくさの設定</legend>
+    <label>向きを変える角度 <select id="optSnap"><option value="30">30°ずつ</option><option value="45">45°ずつ</option></select></label>
+    <label>動くとき、視野のまわりを暗くする <select id="optVig"><option value="on">する（酔いにくい）</option><option value="off">しない</option></select></label>
+    <label>動く速さ <select id="optSpeed"><option value="0.7">ゆっくり</option><option value="1" selected>ふつう</option><option value="1.3">はやい</option></select></label>
+  </fieldset>
+  <small class="vr-help">右手：引き金＝糖のしずく、握る＝水をくむ・まく　／　左手：手首の画面を見る＝スキャン、握る＝地上 ⇄ 土の中</small>
 </div>
 <script type="module" src="/src/pages/vr.ts"></script>
 </body>

diff --git a/undersoil/index.html b/undersoil/index.html
@@ -29,9 +29,10 @@
 <div class="scale-tag"><b></b>0.1 mm（髪の毛の太さほど）</div>
 <div class="vital">土の活力 <span id="vitNum">0</span>%<div class="bar"><i id="vitBar"></i></div></div>
 <div class="actions">
-  <button class="btn primary" id="water">水を運ぶ</button>
+  <button class="btn primary" id="water">自動で水を運ぶ</button>
   <button class="btn" id="dry">乾かす</button>
   <button class="btn" id="tour">自分で動く</button>
+  <button class="btn tool" id="waterBtn">水をくむ</button>
   <button class="btn tool" id="scanBtn">スキャン</button>
   <button class="btn tool" id="sugarBtn">糖のしずく</button>
   <button class="btn" id="meet">生き物を紹介</button>

diff --git a/undersoil/Docs/HANDOFF.md b/undersoil/Docs/HANDOFF.md
@@ -132,3 +132,6 @@
 - 2026-11-27：映像のリアリティの仕上げ（`REFERENCE/realism-pass-2026-11-27.md`）と提案 5 つ（光のゆらめき＝soilMaterial、ピント送り＝screen.ts、雲＝surface.ts、繊維のかけら＝fibres.ts、比べるスライダー＝progress.ts の kind:'compare'）。
   **M2 に着手**：`controls.ts`（歩く ⇄ 泳ぐ。water を screen.ts から渡す）、`tools.ts`（スキャン、糖のしずく）。菌糸を滑るはステージ4まで保留。
   残り：VR の道具と酔いにくさの設定、手触りの調整（PROMPTS.md の「操作が気持ちよくないとき」）。この環境では、動きのある画面の撮影は時間切れになりやすい（状態は page.evaluate で確かめる）。
+- 2026-11-27（続き）：M2 の残りと提案 5 つ。`tools.ts` に water()（入口＝区画 0 は雨水の源。くむ→乾いた区画でまく→となりに水があれば grid.link）、read()、スキャンの帯。
+  `swarm.ts` に走化性と分裂（糖のそばだけ）。`colloids.ts` は生き物（creatures.movers()）に押しのけられる。設定に動く速さ・見回す速さ。
+  VR（`vr.ts`）：右手 引き金＝糖、握る＝水／左手 手首の板＝スキャン、握る＝地上 ⇄ 土の中。酔いにくさの設定は vr/index.html の select（localStorage undersoil.vr.*）。**Quest 3 の実機では未確認**。
